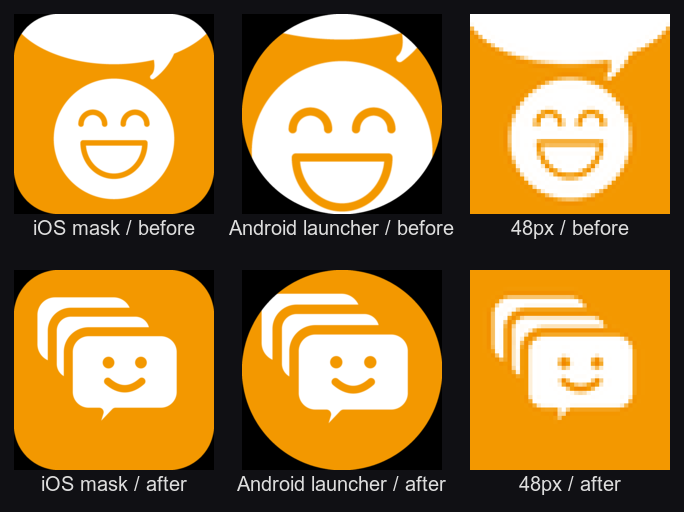
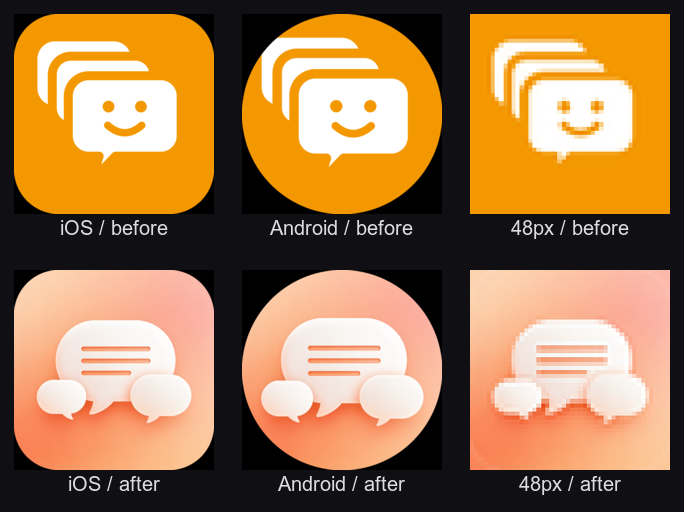
:art: 支給されたデザインをアイコンとして使える形に整えて差し替え
支給された2048pxの画像は角丸が焼き込まれ、外側が白だった(丸みの半径は実測で
約380px)。このまま入れるとiOS/Androidがさらにマスクを掛けるので二重に丸まり、
角に白が残る。角丸の外側を背景グラデーションで埋めて全面塗りに直した。

埋め方は、64pxまで落とした画像で「ぼかす→有効領域だけ元に戻す」を220回繰り返して
周囲の色を角へ拡散させ、2048pxへ戻してから境界を50pxぼかして合成する形にした。
2048pxのまま拡散させると1回あたりの変化量が8bitの量子化で消えてしまい、
何度繰り返しても角が白いままになる。

Androidのアダプティブ前景はデザインを70%に縮めて中央に置き、外周は端の画素を
伸ばして埋めた。-set option:distort:viewport に負のオフセットを渡す書き方は効かず
中身が左上へずれたので、-distort SRT で中心を中心へ写す形にしている。
生成後に中心座標を測って確認する手順も残した。

通知アイコンは彩度で抜いた。白い吹き出し(彩度3%前後)とオレンジの背景(28%以上)が
はっきり分かれているので13%で二値化するだけで済み、吹き出しの中のオレンジの線は
自動的に穴になる。

色はグラデーションから採り直した。従来の#F39800は黄寄りで、今回のコーラル寄りの
デザインとは合わないため。

48pxでの明瞭さは差し替え前より落ちている。背景がグラデーションで上側が淡く、
白との明度差が小さいため。実害が出るなら検索結果の一覧なので、差し替え後に
Play Consoleの表示回数→インストール率で判断する。

diff --git a/app.config.ts b/app.config.ts
@@ -141,10 +141,12 @@ const config: ExpoConfig = {
     // ⚠ foregroundImage は「中央66.7%しか表示されない」前提で作ること。
     // 全面に描いたものを渡すとランチャーで外周が切り落とされる(2026-08まで実際にそうで、
     // icon-1024.png と同一の画像が入っていたため吹き出しがほぼ消えていた)。
-    // 差し替えるときは ./scripts/build-icons.sh を通すこと
+    // 差し替えるときは ./scripts/build-icons.sh を通すこと。
+    // 前景は不透明なので backgroundColor は実際には見えない。視差で端が覗いたときに
+    // 違和感が出ないよう、デザインの下端から採った色を入れてある
     adaptiveIcon: {
       foregroundImage: './assets/app/adaptive-foreground.png',
-      backgroundColor: '#F39800',
+      backgroundColor: '#FBA675',
     },
     // App Links(/.well-known/assetlinks.jsonは配信済み)。
     // android/ は .gitignore 済みの prebuild 生成物(Expo CNG)なので、ここが唯一の正本。
@@ -165,9 +167,10 @@ const config: ExpoConfig = {
       'expo-notifications',
       {
         // Androidのステータスバー通知アイコンは白シルエット必須(カラー画像だと白四角になる)。
-        // assets/app/design/notification-source.svg から生成(目・口はalphaを抜いて表現)
+        // icon-master.png から彩度で吹き出しだけを抜いて生成する(scripts/build-icons.sh)。
+        // 吹き出しの中の線はオレンジ=彩度が高いので、自動的に穴になる
         icon: './assets/app/notification-icon.png',
-        color: '#F39800',
+        color: '#FA8659',
       },
     ],
     // Firebase設定ファイルがあるときのみネイティブ組み込みを行う(analyticsはapp同梱のためplugin不要)

diff --git a/docs/ASO-SCREENSHOTS.md b/docs/ASO-SCREENSHOTS.md
@@ -188,132 +188,90 @@ GROWTH-PLAN の目標は新規インストール 8件/月 → 300件/月。
 
 ---
 
-# アプリアイコンの最適化（2026-08-20 実施）
+# アプリアイコン（2026-08-21 差し替え）
 
-## 実寸で確認してわかったこと
-
-旧アイコンは**オレンジ地に白い笑顔＋吹き出し**（ブランドオレンジ `#F39800`）。
-これを実際のマスクとサイズに落として確認した結果、**2つの実害**が見つかった。
+支給されたデザイン（オレンジのグラデーション地に白い吹き出し3つ、大きい吹き出しの中に
+書き込みを表す3本の線）を、アプリアイコンとして使える形に整えて差し替えた。
 
 ![before / after](assets/icon-before-after.png)
 
-### 1. Android のアダプティブアイコンが壊れていた（実バグ）
+## 支給データに手を入れた点
 
-`assets/app/adaptive-foreground.png` が `icon-1024.png` と**バイト単位で同一**だった
-（`magick compare -metric AE` の差分が 0）。
+### 1. 焼き込まれていた角丸と白余白を落とし、全面塗りに直した
 
-Android のアダプティブアイコンは 108dp の前景のうち**中央 72dp（66.7%）しか表示されない**。
-全面に描いた画像を前景として渡していたため、ランチャーでは外周が切り落とされ、
-**吹き出しがほぼ消え、笑顔が円からはみ出す**状態で表示されていた（上図「Android launcher / before」）。
+支給された 2048px の画像は**角丸が焼き込まれ、外側が白**だった（丸みの半径は実測で約380px）。
+このまま入れると iOS/Android がさらにマスクを掛けるので、**二重に丸まって角に白が残る**。
 
-さらに `adaptiveIcon.backgroundColor` は `#E0AEE7`（淡い紫）で、
-ブランドオレンジでもアプリのダークテーマでもない値が入っていた。前景が不透明だったため
-表示上は見えていなかったが、通知アイコンの色 `notification_icon_color` にも同じ紫が使われており、
-こちらは**ステータスバーで実際に紫に着色されていた**。
+角丸の外側を背景グラデーションで埋めて全面塗りにした。手順:
 
-### 2. iOS でも吹き出しがマスクに切られていた
+1. 半径520pxの角丸矩形マスクを作り、外側を「埋める領域」とする
+   （実測380pxより大きく取って、元の輪郭のにじみを巻き込まないようにする）
+2. 64pxまで落とした画像で「ぼかす → 有効領域だけ元に戻す」を220回繰り返し、
+   周囲の色を角へ拡散させる。2048pxのままでは1回あたりの変化量が量子化で消えて拡散が進まない
+3. 拡散結果を2048pxへ戻し、境界を50pxぼかしたマスクで元画像と合成する。
+   継ぎ目を完全に消すにはこのぼかしが要る
 
-吹き出しが 1024px の枠を上にはみ出していたため、iOS の角丸マスク（半径約 229px）で上端が削られ、
-「切れた白い塊」になっていた（上図「iOS mask / before」）。
+### 2. Android のアダプティブ前景を作り直した
 
-### 3. 48px でカテゴリが伝わらない
+アダプティブアイコンは108dpのうち**中央72dp（66.7%）しか表示されない**。
+デザインを70%に縮めて中央に置き、外周は端の画素を伸ばして埋めた（外周は通常見えないが、
+ランチャーの視差で覗いたときに違和感が出ないようにするため）。
 
-Play の検索結果相当まで落とすと、残るのは笑顔だけになる。
-笑顔＋吹き出しは**チャット／メッセージアプリ**に見え、2ch/5ch まとめのリーダーだと分かる手がかりがない。
+> ⚠ `-set option:distort:viewport` に負のオフセットを渡す書き方は効かず、中身が左上へずれた。
+> `-distort SRT` で「元画像の中心を出力の中心へ」写す形に変えている。
+> **生成後は必ず中心座標を測って確認すること**（ずれるとランチャーで片側だけ切れる）。
 
-## 4案を実際に描いて比較した
+### 3. 通知アイコンを彩度で抜き出した
 
-方針だけで決めず、SVG で描いて 48px まで落として突き合わせた。
+Android のステータスバー通知アイコンは alpha しか見ないため、白いシルエットである必要がある。
+このデザインは**白い吹き出し（彩度3%前後）とオレンジの背景（彩度28%以上）**で
+はっきり分かれているので、彩度13%で二値化するだけで抜ける。
+吹き出しの中の3本の線はオレンジ＝彩度が高いので、**自動的に穴になる**のが都合がよい。
 
-| 案 | 内容 | 48px での結果 |
-|---|---|---|
-| A | 吹き出しを左右対称に2枚配置＋笑顔 | 左右の吹き出しが**耳に見えて猫の顔**と読める。不採用 |
-| B | 吹き出し1枚＋書き込み3本 | **潰れずに読めた**。ただし SMS / メッセージ系の汎用アイコンに酷似。不採用 |
-| F | B＋背面に1枚 | 同上。チャットアプリの読みから抜けられない |
-| **A2** | **左上へ後退する重なり3枚＋笑顔（採用）** | **重なりが残り、笑顔も判別できる** |
+## 生成
 
-> 補足: 事前には「案B は 48px で線が潰れる」と見ていたが、**実際には潰れなかった**。
-> 落選理由は可読性ではなく、汎用のメッセージアプリと見分けがつかないこと。
-
-### A2 を選んだ理由
-
-- **アプリの本質をそのまま形にしている** — 69サイトを横断して同じ話題を1か所に集める。
-  1.49 で入れた話題検知とも符合する
-- **既存の笑顔を残している** — 置き換えではなく発展。インストール済みユーザーが見失わない
-- **48px で成立する** — 重なりのシルエットが残る
-- **どのマスクでも切れない** — iOS の角丸、Android の円・角丸のいずれでも枠内に収まる
-
-なお、アイコン変更のリスクは今なら実質ゼロだった。Play Console の実測で
-月間アクティブ 1 台・インストール 2 件しかない。失うブランド認知が無いうちに切り替えた。
-
-## 実装
-
-原本は SVG で、そこから全解像度を書き出す。
+```bash
+./scripts/build-icons.sh   # 要: brew install imagemagick
+```
 
 | ファイル | 役割 |
 |---|---|
-| `assets/app/design/icon-source.svg` | アイコン原本 |
-| `assets/app/design/notification-source.svg` | 通知アイコン原本（目・口は alpha を抜いて表現） |
-| `scripts/build-icons.sh` | 上記2つから全 PNG / WebP を生成 |
-
-```bash
-./scripts/build-icons.sh   # 要: brew install librsvg imagemagick
-```
-
-守っている制約:
-
-- **要素は2つまで**（重なり・笑顔）。3つ以上は 48px で潰れる
-- **線幅は 1024px 時に 46px 以上**。これ以下だと白同士がつながって塊になる
-- **アダプティブ前景は 70% に縮めて中央配置**（`ADAPTIVE_SCALE`）。全面に描かない
-- **背景は単色オレンジ**。グラデーションは小サイズで濁る
-- 通知アイコンは Android が alpha しか見ないため、**目・口・重なりの境目はすべて透明**
+| `assets/app/design/icon-master.png` | 原本（2048px・角丸なし・余白なしの全面塗り） |
+| `scripts/build-icons.sh` | 上記から全 PNG / WebP を生成 |
 
 `android/` と `ios/` は `.gitignore` 済みの prebuild 生成物（Expo CNG）なので、
 正本は `assets/app/*.png`。ビルドのたびにそこから作り直される。
-`build-icons.sh` が `android/` 配下も更新するのは、prebuild を挟まずに
-`npm run android` で確認したいときのため。
+
+## 実寸で確認した結果
+
+| サイズ / マスク | 結果 |
+|---|---|
+| iOS 角丸マスク | 全面塗りで、角に白が残らない |
+| Android 円マスク | 中央に収まり、どこも切れない |
+| Android 角丸マスク | 同上 |
+| 96px | 吹き出し3つと3本の線がはっきり読める |
+| 48px | 吹き出し3つのシルエットは残る。**3本の線は溶けて1つの塊に見える** |
+| 通知アイコン 24px | 吹き出しと線のシルエットとして読める |
+
+正直に書いておくと、**48pxでの明瞭さは差し替え前より落ちている**。
+前のアイコンは単色オレンジに白だったので境界が硬かったが、今回は背景がグラデーションで、
+上側が淡いピーク（`#FCC3A8` 前後）のため白との明度差が小さい。
+下側はオレンジが濃いので沈まない。実害が出るとすれば検索結果の一覧なので、
+差し替え後に Play Console の「表示回数→インストール率」を見て判断する。
+
+## 色
+
+グラデーションから採った値。従来のブランドオレンジ `#F39800`（黄寄り）ではなく、
+今回のデザインはコーラル寄りなので合わせ直した。
+
+| 用途 | 値 | 出どころ |
+|---|---|---|
+| `adaptiveIcon.backgroundColor` | `#FBA675` | デザイン下端の平均。前景が不透明なので実際には見えない保険 |
+| `notification_icon_color` | `#FA8659` | デザイン左下。ステータスバーの着色に使われる |
 
 ## 残っている確認
 
 - [ ] 実機／エミュレータでホーム画面のアイコンを目視（iOS シミュレータと Android エミュレータの両方）
-- [ ] 通知を1件出してステータスバーのアイコンが白いシルエットで出ること（紫の着色が消えたこと）
+- [ ] 通知を1件出してステータスバーのアイコンを目視
 - [ ] スプラッシュ画面の見え方
-- [ ] ストア掲載アイコンの差し替え（Play Console / App Store Connect）。**次のバージョン提出時に併せて行う**
-
-## 8/22 に scenario.com で別案も見るなら
-
-採用案で確定しているので必須ではない。方向性を広げたいときだけ使う。
-
-**生成結果はそのまま提出しない。** アプリアイコンは左右対称・線幅の統一・角丸半径の統一といった
-幾何学的な精度が要る。AI はここを崩すので、**探索に留めて確定案は SVG で清書**し、
-必ず 48px に落として検証する。
-
-共通ネガティブプロンプト:
-
-```
-text, letters, words, japanese characters, numbers, watermark, signature, realistic photo,
-3d render, drop shadow, gradient background, thin lines, cluttered, multiple panels, border frame
-```
-
-集約をより強く出す方向（笑顔なし）:
-
-```
-Flat vector app icon, solid warm orange #F39800 background, several white rounded speech bubbles
-funnelling into one larger bubble at the center, sense of many sources merging into one,
-bold thick shapes, minimal, symmetrical, generous margins, no gradient, no shadow,
-flat design, app store icon, square, crisp edges
-```
-
-読み上げを出す方向:
-
-```
-Flat vector app icon, solid warm orange #F39800 background, a white circular smiling face
-with thick clean strokes, two concentric white arc waves radiating from the right side
-suggesting sound, bold minimal geometry, centered, generous margins, no gradient, no shadow,
-flat design, app store icon, square, crisp edges
-```
-
-## 効果測定
-
-Play Console 「ストアのパフォーマンス」で、**ストア掲載ページの表示回数に対するインストール率**を
-差し替え前後で比較する。アイコンは検索結果でのタップ率（表示→訪問）に効くため、訪問数の変化も併せて見る。
+- [ ] ストア掲載アイコンの差し替え（Play Console / App Store Connect）。次のバージョン提出時に併せて行う
